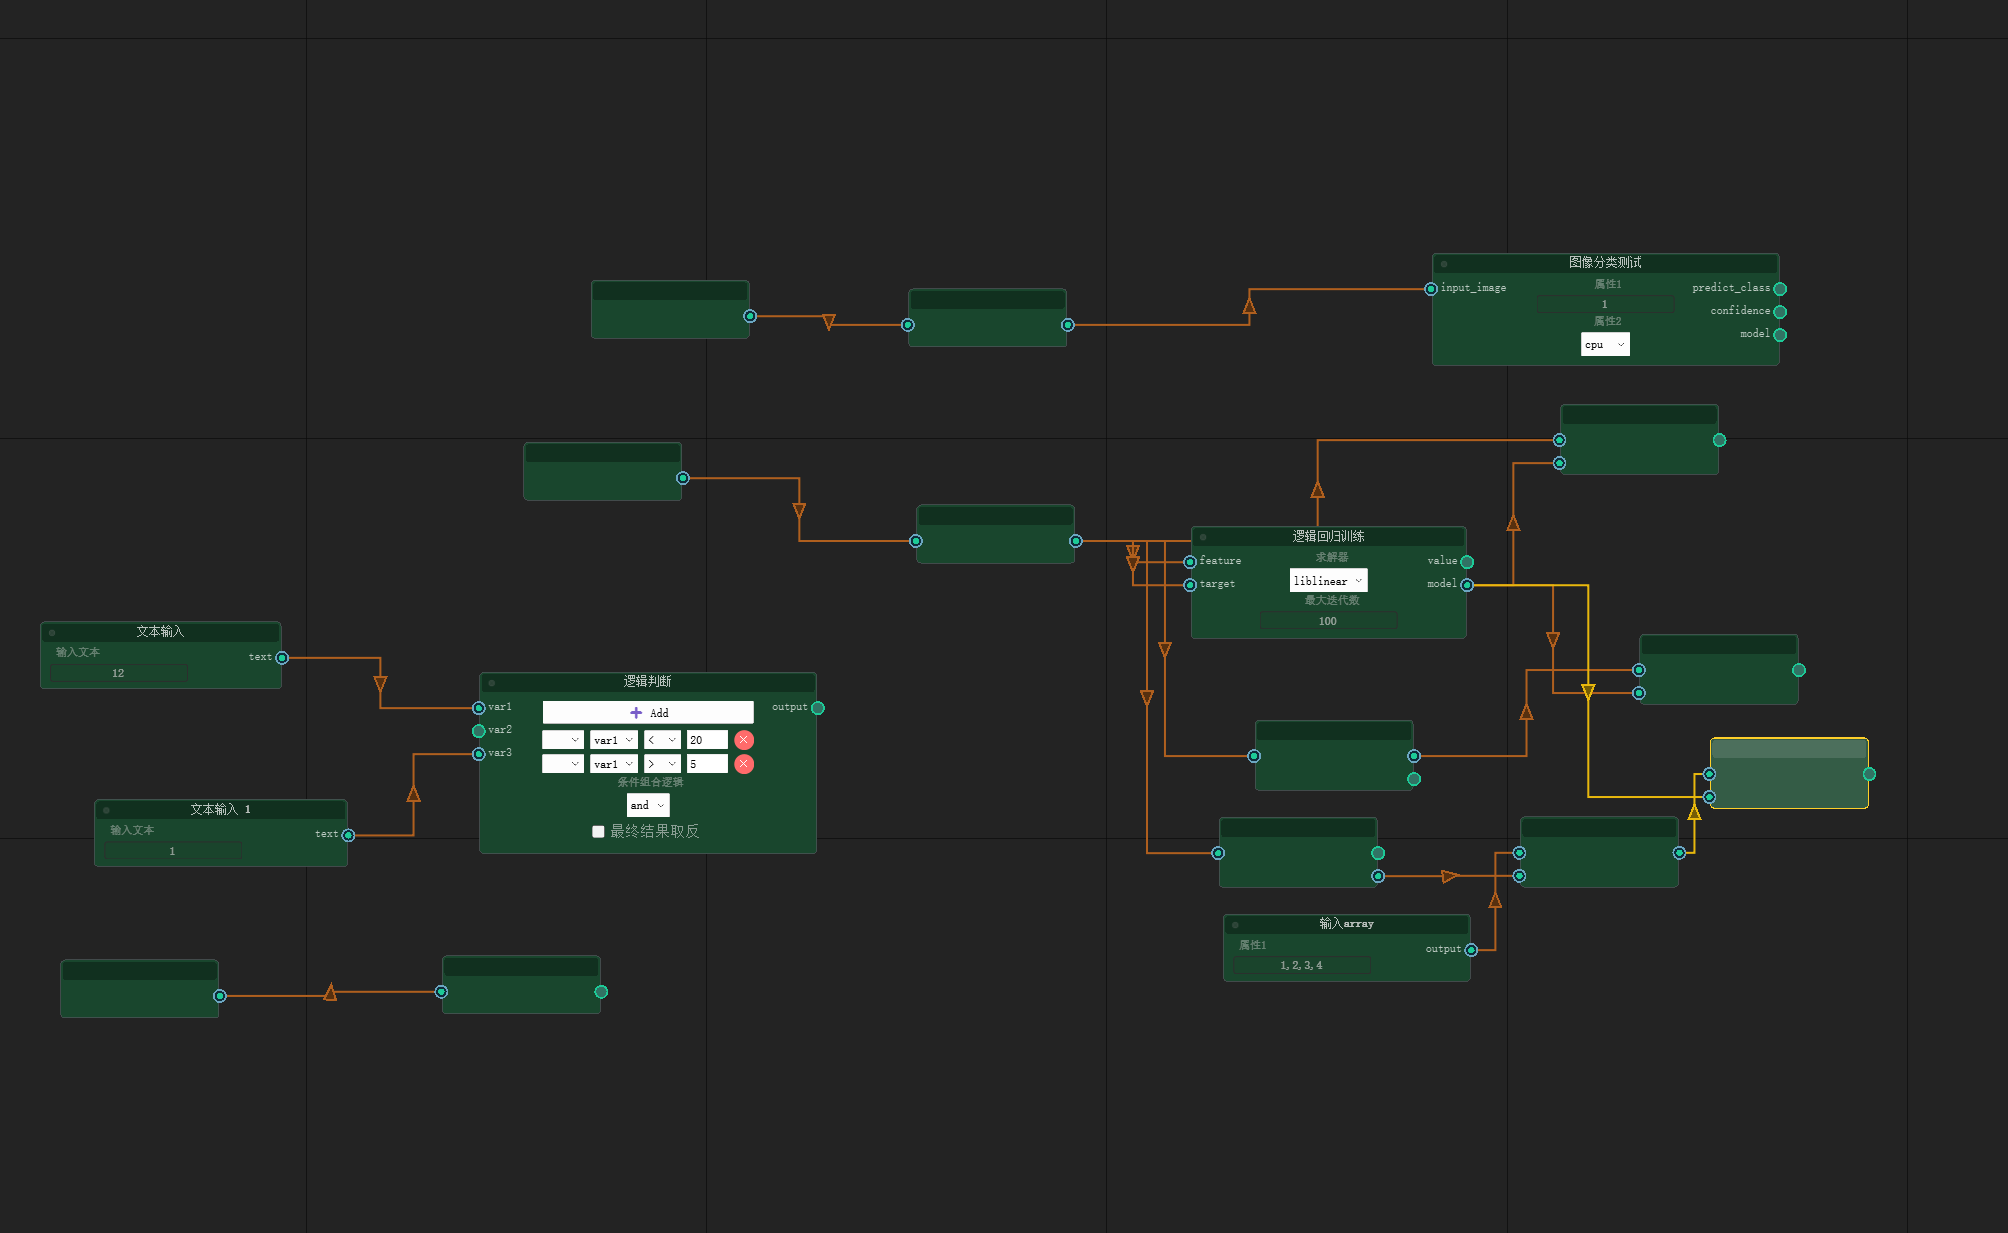
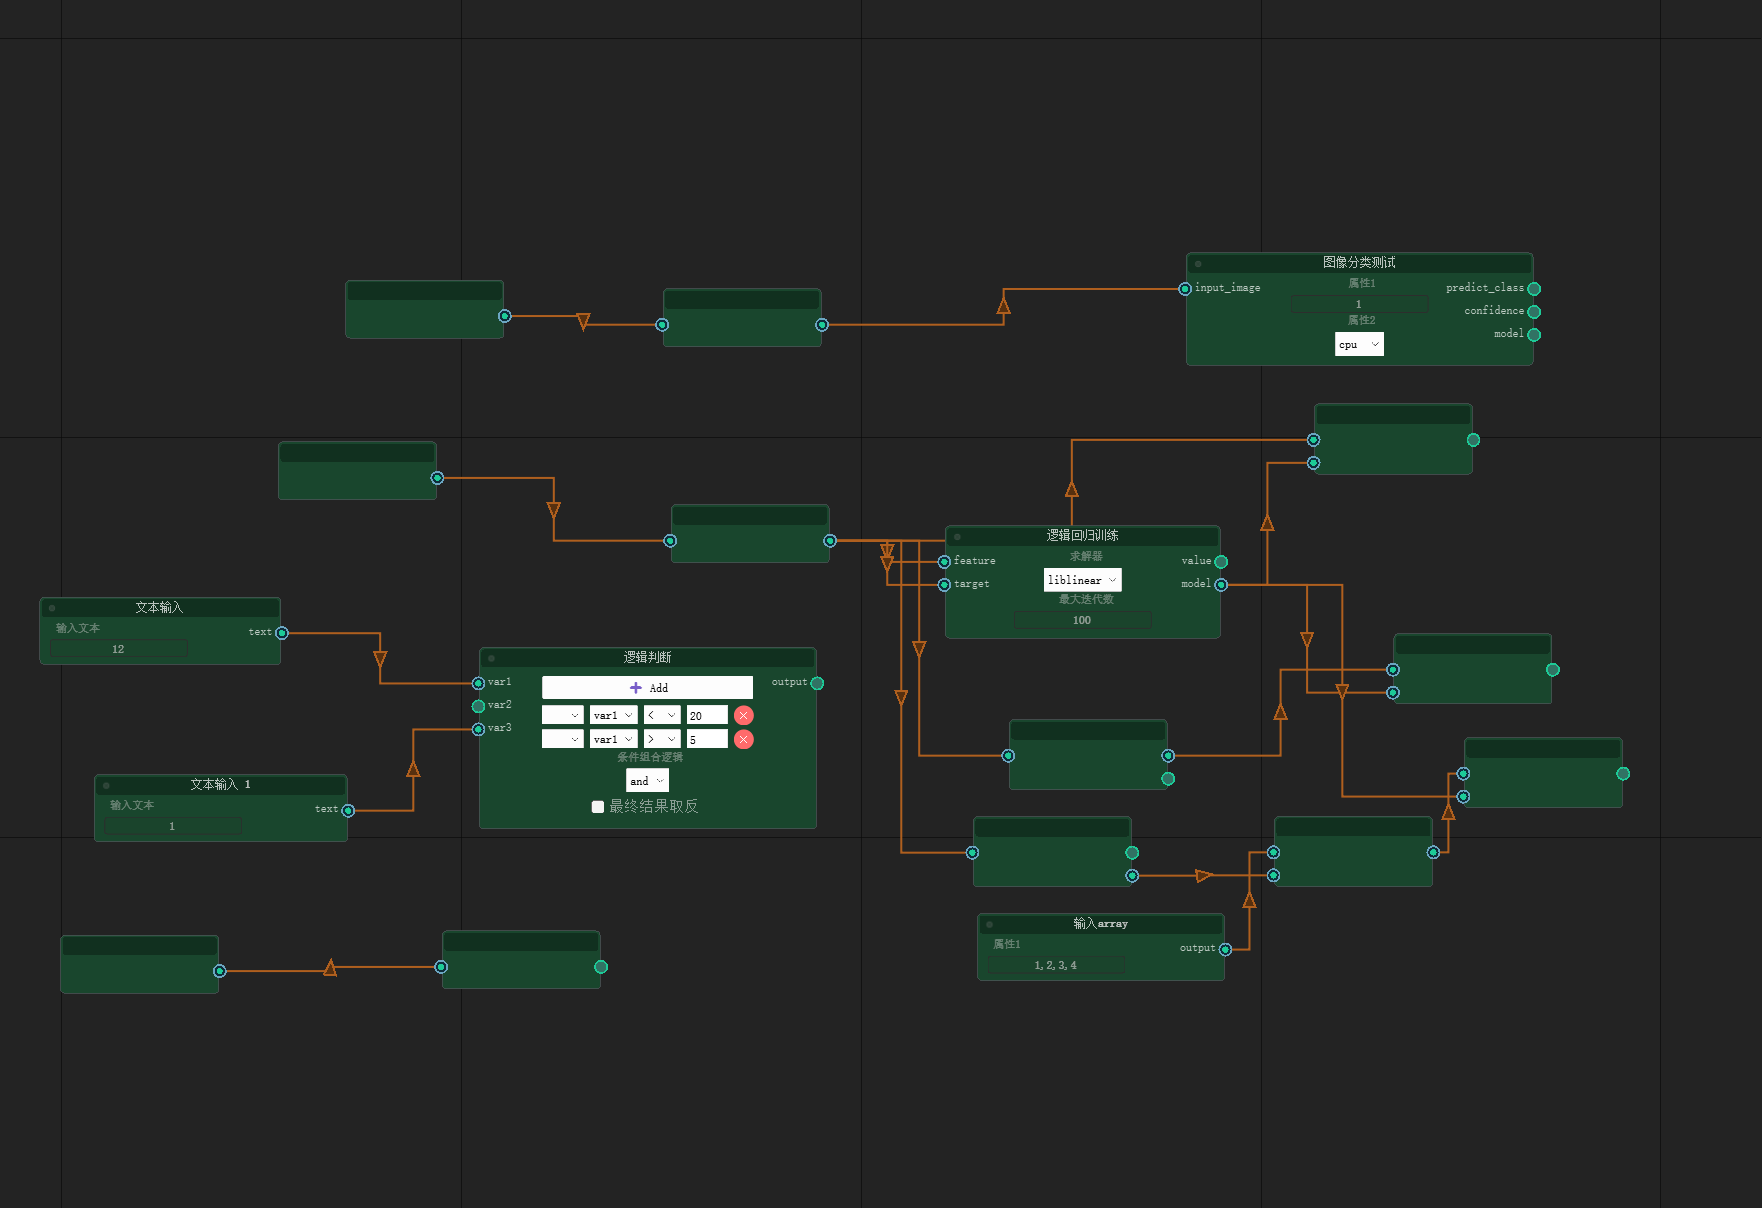
feat(canvas): 添加工作流保存和加载成功提示
- 在保存工作流后显示“保存成功”提示信息
- 在加载工作流后显示“加载成功”提示信息
- 更新工作流节点ID并调整部分节点位置
- 移除未使用的导入模块和组件引用

diff --git a/app/interfaces/canvas_interface.py b/app/interfaces/canvas_interface.py
@@ -902,6 +902,7 @@ class CanvasPage(QWidget):
 
         # ✅ 自动生成预览图（同目录，同名，.png）
         self._generate_canvas_thumbnail(file_path)
+        self.create_success_info("保存成功", "工作流保存成功！")
 
     def _generate_canvas_thumbnail(self, workflow_path):
         """根据工作流文件路径生成同名 PNG 预览图"""
@@ -973,6 +974,7 @@ class CanvasPage(QWidget):
             self.set_node_status(
                 node, getattr(NodeStatus, f"NODE_STATUS_{status_str.upper()}", NodeStatus.NODE_STATUS_UNRUN)
             )
+        self.create_success_info("加载成功", "工作流加载成功！")
 
     def run_workflow(self):
         nodes = self.graph.all_nodes()

diff --git a/app/interfaces/workflow_manager.py b/app/interfaces/workflow_manager.py
@@ -4,10 +4,10 @@ import subprocess
 from pathlib import Path
 
 from PyQt5.QtCore import QEasingCurve
-from PyQt5.QtWidgets import QWidget, QVBoxLayout, QStackedWidget, QHBoxLayout
+from PyQt5.QtWidgets import QWidget, QVBoxLayout, QHBoxLayout
 from Qt import Qt
 from qfluentwidgets import (
-    TabBar, BodyLabel, ScrollArea, PrimaryPushButton, FluentIcon, ToolButton, FlowLayout, InfoBar
+    BodyLabel, ScrollArea, PrimaryPushButton, FluentIcon, FlowLayout, InfoBar
 )
 
 from app.interfaces.canvas_interface import CanvasPage
